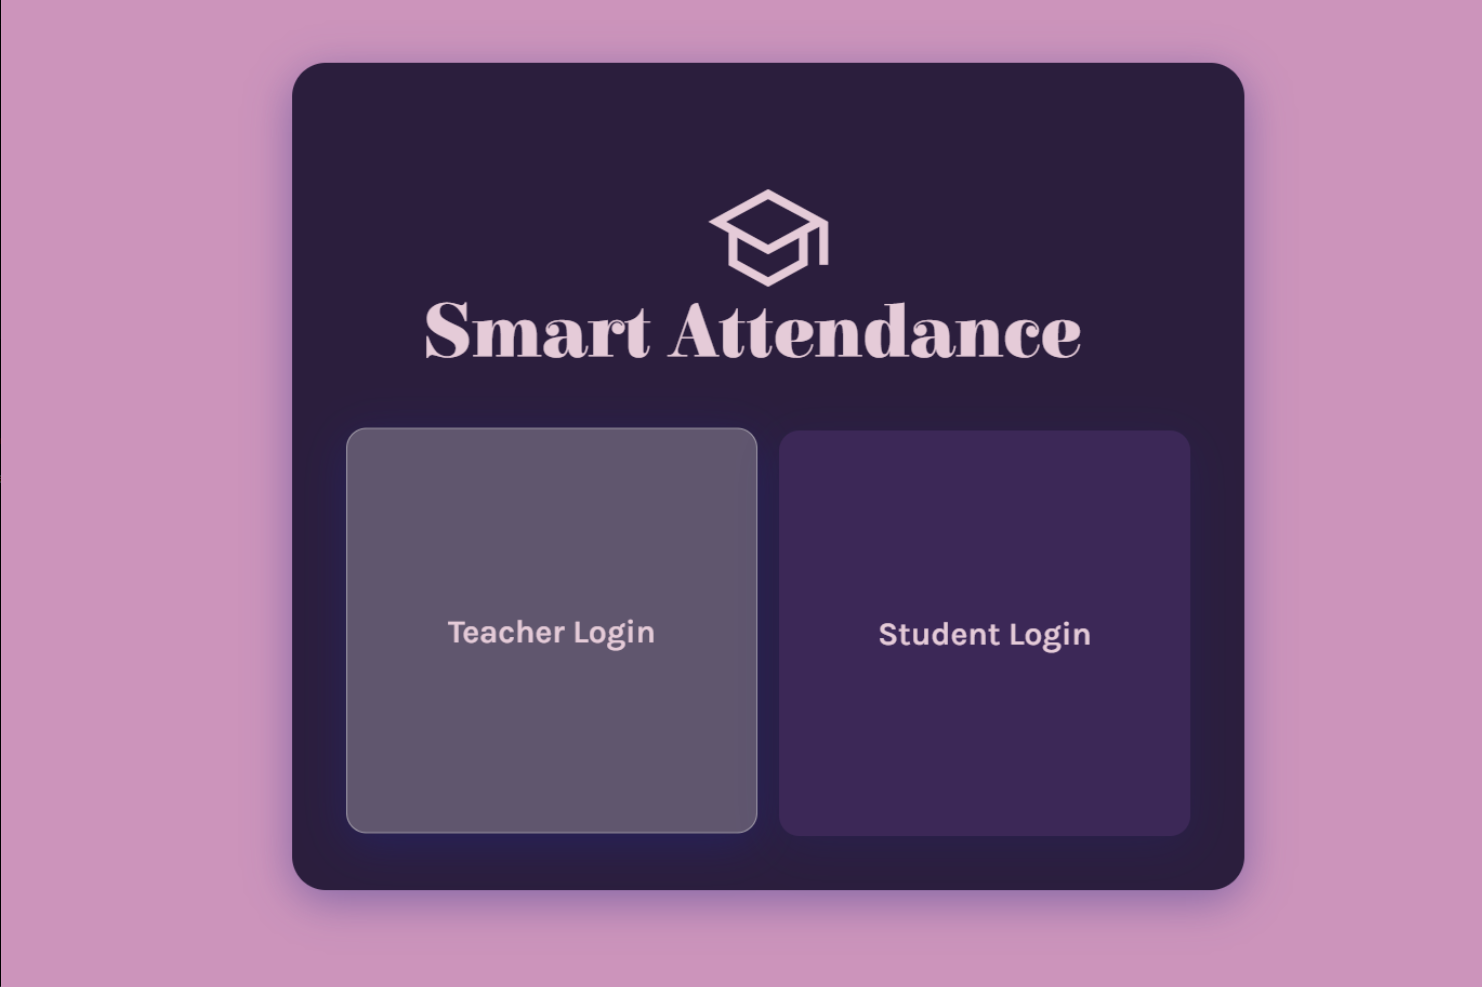
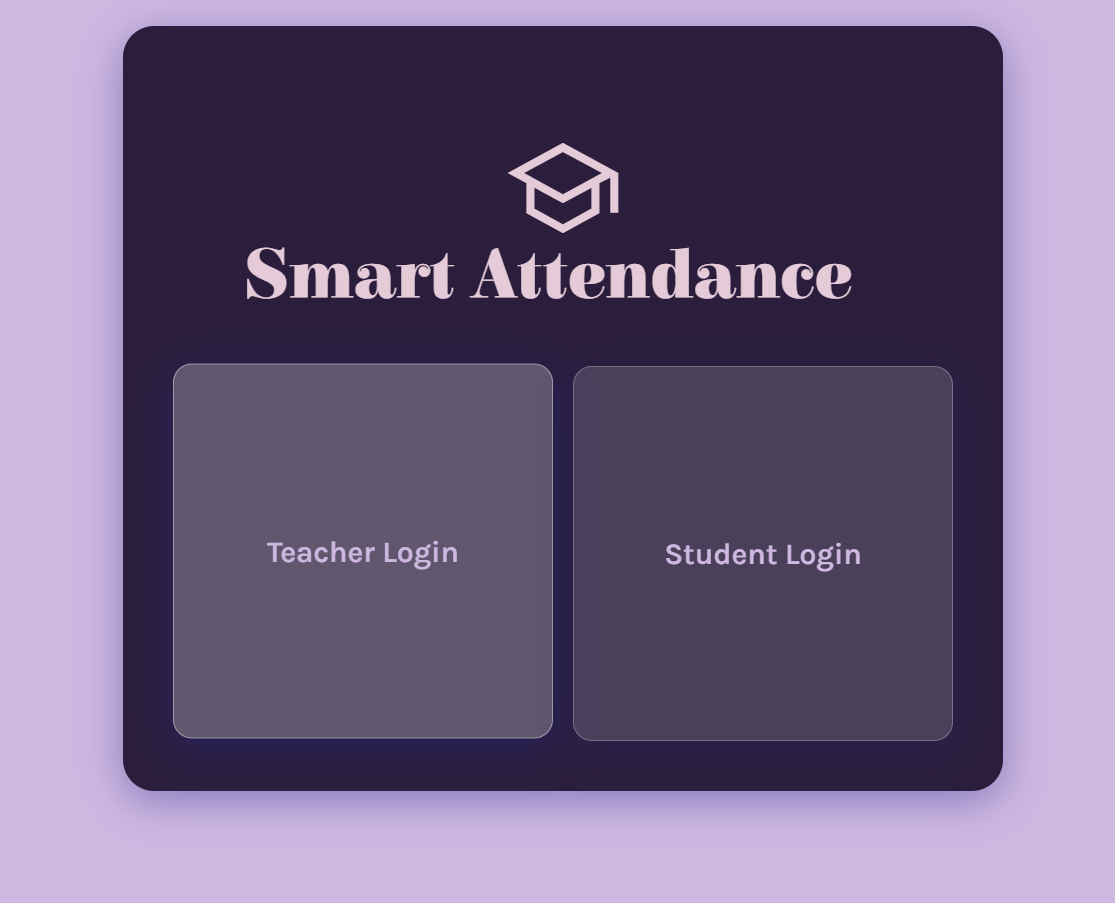
final

diff --git a/src/ui/base_layout.py b/src/ui/base_layout.py
@@ -4,7 +4,7 @@ def background_home():
     st.markdown("""
         <style>
             .stApp{
-            background: #cc94bb;
+            background: #ceb7e1;
             }
 
         </style>
